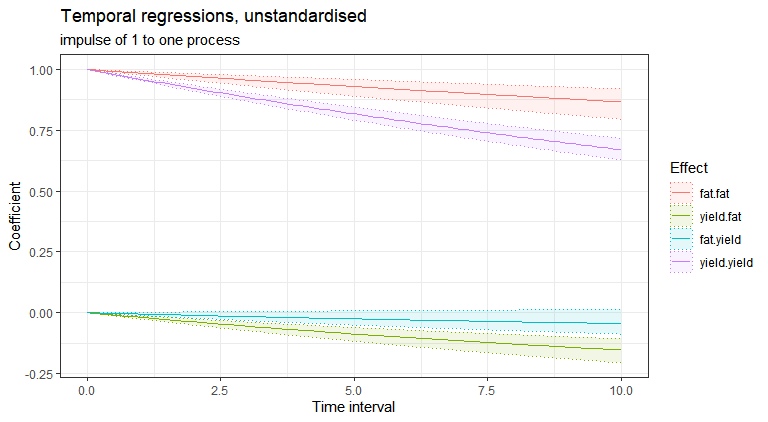
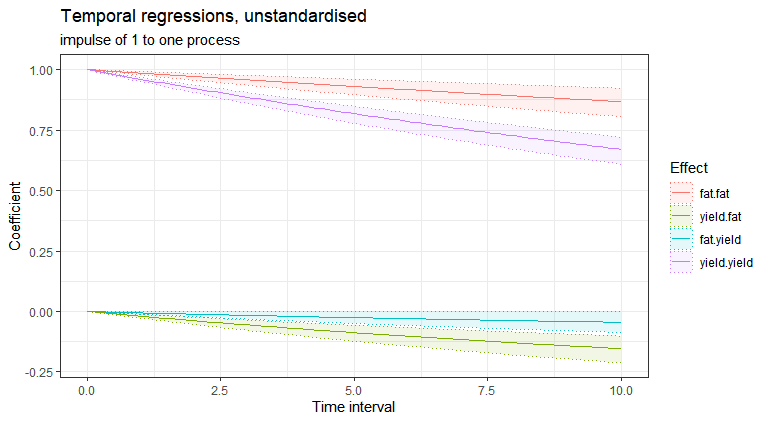
README: diff_fat_yield is the parameter behind the correlation, which DIFFUSIONcor in parmatrices gives

diff --git a/README.md b/README.md
@@ -169,29 +169,29 @@ for easier estimation and more sensible default priors.
 ``` r
 summary(fit)$popmeans
 #>                   mean    sd   2.5%    50%  97.5%   mode
-#> T0m_yield       -0.936 0.144 -1.220 -0.937 -0.661 -0.943
-#> T0m_fat          0.144 0.203 -0.253  0.141  0.559  0.150
-#> drift_yield     -0.041 0.004 -0.050 -0.040 -0.033 -0.041
+#> T0m_yield       -0.952 0.144 -1.238 -0.950 -0.658 -0.943
+#> T0m_fat          0.159 0.198 -0.236  0.152  0.567  0.150
+#> drift_yield     -0.041 0.004 -0.050 -0.041 -0.033 -0.041
 #> drift_yield_fat -0.020 0.004 -0.028 -0.020 -0.013 -0.020
 #> drift_fat_yield -0.006 0.004 -0.013 -0.006  0.001 -0.006
-#> drift_fat       -0.015 0.004 -0.025 -0.015 -0.009 -0.015
+#> drift_fat       -0.015 0.004 -0.025 -0.015 -0.008 -0.015
 #> diff_yield       0.136 0.004  0.128  0.136  0.143  0.136
-#> diff_fat_yield  -0.592 0.061 -0.709 -0.592 -0.464 -0.592
-#> diff_fat         0.116 0.005  0.107  0.116  0.125  0.116
-#> mvaryield        0.329 0.003  0.323  0.328  0.334  0.328
+#> diff_fat_yield  -0.592 0.061 -0.713 -0.590 -0.475 -0.592
+#> diff_fat         0.116 0.005  0.105  0.116  0.126  0.116
+#> mvaryield        0.328 0.003  0.322  0.328  0.335  0.328
 #> mvarfat          0.582 0.005  0.573  0.582  0.591  0.582
-#> mm_yield        -0.058 0.123 -0.281 -0.064  0.190 -0.054
-#> mm_fat           0.146 0.113 -0.063  0.146  0.362  0.142
+#> mm_yield        -0.050 0.124 -0.290 -0.047  0.209 -0.054
+#> mm_fat           0.140 0.110 -0.077  0.141  0.360  0.142
 ```
 
 Drift names read as `drift_<affected>_<predictor>`, so `drift_yield` is
 yield’s own auto effect and `drift_yield_fat` is the effect of fat on
 yield. A negative auto effect pulls a process back toward its
 equilibrium and its size sets how fast. `diff_yield` and `diff_fat` are
-the system noise standard deviations, and `diff_fat_yield` sets the
-correlation between them: with two processes it is the correlation’s
-Fisher z, so the estimate here is a correlation of -0.53. `mvar*` are
-the measurement error standard deviations, and `T0m_*` the mean initial
+the system noise standard deviations, and `diff_fat_yield` is the
+parameter behind their correlation; the correlation itself, -0.53, is
+the `DIFFUSIONcor` row of `summary(fit)$parmatrices`. `mvar*` are the
+measurement error standard deviations, and `T0m_*` the mean initial
 states.
 
 The two cross effects are not symmetric: a high fat percentage predicts
@@ -201,10 +201,10 @@ excludes zero, while the interval for the reverse effect does not.
 ``` r
 summary(fit)$popsd
 #>            mean    sd  2.5%   50% 97.5%  mode
-#> T0m_yield 0.901 0.121 0.681 0.896 1.172 0.892
-#> T0m_fat   1.154 0.152 0.878 1.141 1.470 1.149
-#> mm_yield  0.748 0.108 0.563 0.740 0.979 0.742
-#> mm_fat    0.433 0.268 0.111 0.366 1.185 0.366
+#> T0m_yield 0.900 0.115 0.687 0.896 1.140 0.892
+#> T0m_fat   1.158 0.162 0.881 1.145 1.516 1.149
+#> mm_yield  0.750 0.102 0.570 0.741 0.983 0.742
+#> mm_fat    0.428 0.263 0.125 0.357 1.195 0.366
 ```
 
 Those are the population standard deviations of the parameters that vary
@@ -304,9 +304,9 @@ Two pieces of syntax recur everywhere and are worth unpacking:
 ``` r
 summary(f)$tipreds
 #>                  mean    sd   2.5%   50% 97.5%  mode     z
-#> tip_Diet_2_cint 0.021 0.013 -0.003 0.021 0.046 0.021 1.621
-#> tip_Diet_3_cint 0.050 0.013  0.024 0.050 0.074 0.051 3.908
-#> tip_Diet_4_cint 0.028 0.013  0.002 0.028 0.053 0.028 2.171
+#> tip_Diet_2_cint 0.021 0.013 -0.005 0.021 0.046 0.021 1.585
+#> tip_Diet_3_cint 0.051 0.013  0.024 0.051 0.076 0.051 3.782
+#> tip_Diet_4_cint 0.028 0.013  0.002 0.028 0.053 0.028 2.209
 ```
 
 Diets 3 and 4 raise the continuous intercept clearly; diet 2 is not
